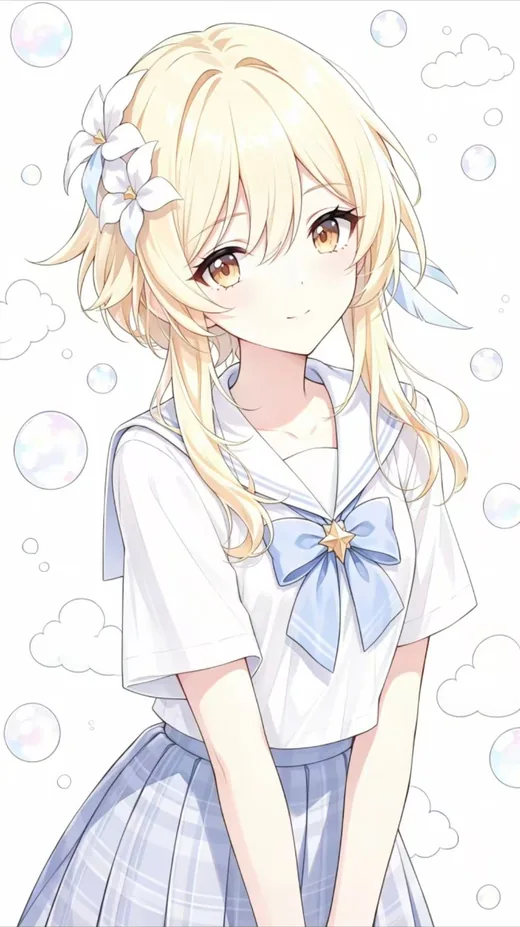
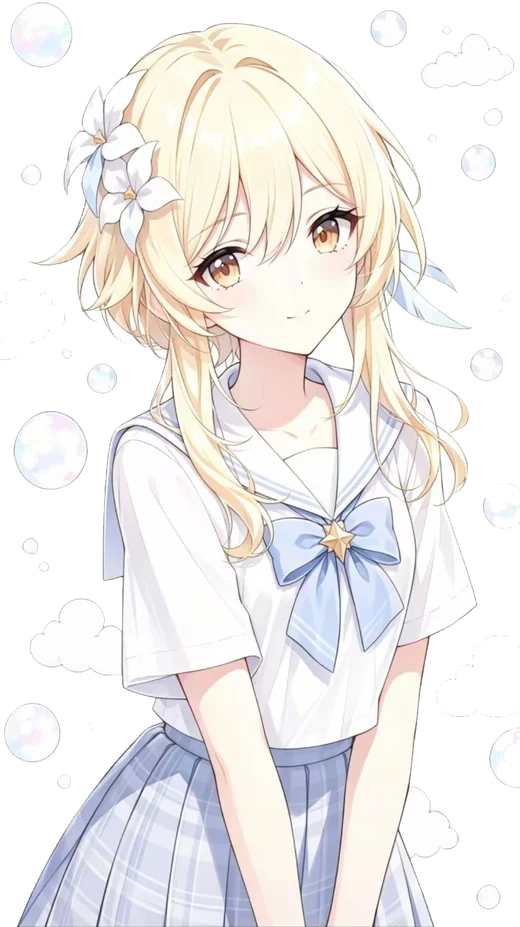
feat(login): 插画改方形并融进背景（白底抠 alpha，去掉卡片边）
- gen-login-art.py 增加抠底：四边 flood fill 近白像素 + 收边羽化，导出带 alpha 的 WebP
  （云朵有轮廓线不会被误吃；白衬衫/白裙也在轮廓内，保住了）
- 登录页插画改成 360px 方形、无卡片边、cover 裁到胸口、下沿羽化，人物直接浮在天空底料上
- 容器上限 1260→1320、登录卡 420→400，把宽度让给插画；窄于 1260 仍整体撤图
- 深色主题只压到 0.86 亮度（没有白底了，不需要重压）
- 关于页插画同步方形 + 身后垫天蓝柔光（白衬衫在白卡上会糊）
- 踩坑记录：mix-blend-mode 只要祖先有 z-index 就失效，所以走 alpha 而不是 blend

diff --git a/src/views/sys/login/Login.vue b/src/views/sys/login/Login.vue
@@ -215,13 +215,15 @@
   /* ---------------- 布局 ---------------- */
   .@{prefix-cls}__inner {
     position: relative;
-    z-index: 2;
+    /* 不加 z-index：一旦形成层叠上下文，插画的 mix-blend-mode 就只能跟
+     * 这个空上下文混合（背景是透明的），白底会重新显形成一块白方块。
+     * 靠 DOM 顺序（sky 在前）就已经在下层了，不需要 z-index。 */
     display: grid;
-    grid-template-columns: minmax(0, 1fr) minmax(0, 420px);
+    grid-template-columns: minmax(0, 1fr) minmax(0, 400px);
     gap: 64px;
     align-items: center;
     width: 100%;
-    max-width: 1260px;
+    max-width: 1320px;
     padding: 56px 40px;
     margin: 0 auto;
   }
@@ -244,17 +246,17 @@
     min-width: 0;
   }
 
-  /* ---------------- 插画（竖版卡片） ----------------
-   * 直接用二创原图：白底 + 气泡 + 水手服本身就是这套品牌视觉，
-   * 不再手绘。图由 build/brand/gen-login-art.py 从截图裁黑边后导出。 */
+  /* ---------------- 插画（方形 · 融进背景） ----------------
+   * 图谱本身带 alpha：白底在 build/brand/gen-login-art.py 里从四边 flood fill 掉，
+   * 所以浅色/深色都不需要 blend 兜底，也没有卡片边。
+   * 方框只决定构图：cover 裁到胸口，下沿羽化，人物像从背景里浮出来。 */
   .@{prefix-cls}__art {
     position: relative;
     flex: 0 0 auto;
-    width: clamp(200px, 19vw, 250px);
-    aspect-ratio: 520 / 927;
+    width: clamp(300px, 25vw, 360px);
+    aspect-ratio: 1;
     margin: 0;
-    border-radius: 22px;
-    box-shadow: 0 30px 70px -34px rgb(53 99 180 / 58%);
+    pointer-events: none;
   }
 
   .@{prefix-cls}__art img {
@@ -262,45 +264,13 @@
     width: 100%;
     height: 100%;
     object-fit: cover;
-    border-radius: inherit;
+    object-position: 50% 4%;
+    mask-image: linear-gradient(180deg, #000 0 82%, rgb(0 0 0 / 0) 100%);
   }
 
-  /* 身后一层天蓝柔光，避免白底卡片像"贴"上去 */
-  .@{prefix-cls}__art::before {
-    position: absolute;
-    inset: -12% -16% -8%;
-    z-index: -1;
-    background:
-      radial-gradient(62% 54% at 50% 40%, rgb(142 199 243 / 44%), transparent 72%),
-      radial-gradient(52% 40% at 50% 96%, rgb(226 171 74 / 22%), transparent 76%);
-    content: '';
-    filter: blur(14px);
-  }
-
-  /* 深色下才需要底部收暗；浅色页面本身是白的，再叠一层反而把裙摆洗白。
-   * 内描边也放这里 —— 图铺满 figure，figure 自身的 inset 阴影会被盖住。 */
-  .@{prefix-cls}__art::after {
-    position: absolute;
-    inset: 0;
-    pointer-events: none;
-    content: '';
-    border-radius: inherit;
-    box-shadow: inset 0 0 0 1px rgb(255 255 255 / 66%);
-  }
-
-  html[data-theme='dark'] .@{prefix-cls}__art {
-    box-shadow: 0 34px 80px -30px rgb(0 0 0 / 90%);
-  }
-
-  /* 白底原图在深色下刺眼，压一点亮度即可 —— 压太狠会发灰发脏，
-   * 深色底 + 一张亮色挂画本来就是好看的对比。 */
+  /* 深色下白衬衫会有点刺眼，压一点亮度即可（没有白底了，不需要压很狠） */
   html[data-theme='dark'] .@{prefix-cls}__art img {
-    filter: brightness(0.88) saturate(1.02);
-  }
-
-  html[data-theme='dark'] .@{prefix-cls}__art::after {
-    background: linear-gradient(180deg, rgb(0 0 0 / 0) 76%, rgb(6 14 26 / 26%));
-    box-shadow: inset 0 0 0 1px rgb(255 255 255 / 18%);
+    filter: brightness(0.86) saturate(1.04);
   }
 
   .@{prefix-cls}__lockup {
@@ -497,7 +467,7 @@
   .@{prefix-cls}__card {
     position: relative;
     width: 100%;
-    max-width: 420px;
+    max-width: 400px;
     padding: 28px 28px 20px;
     overflow: hidden;
     background: var(--g-card-bg);

diff --git a/src/views/guoba/about/index.vue b/src/views/guoba/about/index.vue
@@ -180,15 +180,25 @@
     align-items: center;
   }
 
+  /* 插画自带 alpha（白底已在 gen-login-art.py 里抠掉），所以不需要卡片/描边/投影，
+   * 方形只是构图：cover 裁到胸口 + 下沿羽化，人物直接从卡片底色上浮出来 */
   .db-about__brandart {
     position: relative;
     flex: 0 0 auto;
-    width: 132px;
+    width: 148px;
+    height: 148px; /* 显式给高：竖排 flex 里 aspect-ratio 会被图片的固有比例顶开 */
     margin: 0;
-    overflow: hidden;
-    aspect-ratio: 520 / 927;
-    border-radius: 14px;
-    box-shadow: 0 14px 32px -16px rgb(53 99 180 / 58%);
+    align-self: center;
+  }
+
+  /* 卡片底色是白的，白衬衫会跟着糊掉 —— 身后垫一层天蓝柔光，人物才有轮廓 */
+  .db-about__brandart::before {
+    position: absolute;
+    inset: -14%;
+    z-index: -1;
+    content: '';
+    background: radial-gradient(62% 58% at 50% 42%, rgb(142 199 243 / 58%), rgb(142 199 243 / 0) 76%);
+    filter: blur(8px);
   }
 
   .db-about__brandart img {
@@ -196,20 +206,16 @@
     width: 100%;
     height: 100%;
     object-fit: cover;
+    object-position: 50% 2%;
+    mask-image: linear-gradient(180deg, #000 0 88%, rgb(0 0 0 / 0) 100%);
   }
 
-  /* 内描边画在图片之上，否则会被 img 铺满盖掉 */
-  .db-about__brandart::after {
-    position: absolute;
-    inset: 0;
-    pointer-events: none;
-    content: '';
-    border-radius: inherit;
-    box-shadow: inset 0 0 0 1px rgb(255 255 255 / 55%);
+  html[data-theme='dark'] .db-about__brandart::before {
+    background: radial-gradient(56% 50% at 50% 40%, rgb(98 168 234 / 26%), rgb(98 168 234 / 0) 74%);
   }
 
   html[data-theme='dark'] .db-about__brandart img {
-    filter: brightness(0.88) saturate(1.02);
+    filter: brightness(0.88) saturate(1.04);
   }
 
   .db-about__brandbody {
@@ -317,6 +323,7 @@
     .db-about__brandart {
       align-self: center;
       width: 108px;
+      height: 108px;
     }
   }
 

diff --git a/build/brand/gen-login-art.py b/build/brand/gen-login-art.py
@@ -1,46 +1,50 @@
 #!/usr/bin/env python
 # -*- coding: utf-8 -*-
 """
-生成登录页的荧插画资源。
+生成登录页 / 关于页用的荧插画资源。
 
-源图是手机截图（顶部状态栏 + 上下黑边），所以先自动切掉黑边，
-再等比缩到 2 倍图宽度，导出 WebP 给前端用。
+源图是手机截图（顶部状态栏 + 上下黑边），要解决的问题有两个：
+  1. 切掉黑边（按整行平均亮度找画面区）
+  2. 把白底去掉（从四边 flood fill 近白像素），否则深色主题下就是一块白方块；
+     mix-blend-mode: multiply 只在浅色底有效，且一旦祖先形成层叠上下文就失效，
+     所以老老实实做成带 alpha 的图最稳。
 
 用法：
   C:/Users/hp/.workbuddy/binaries/python/envs/default/Scripts/python.exe build/brand/gen-login-art.py
 可选环境变量：
   ART_SRC      源文件（默认 build/brand/source/ying-art-source.jpg）
   ART_WIDTH    输出宽度（默认 520，对应 260px 的 2 倍图）
-  ART_FORMAT   webp | png（默认 webp）
+  ART_BG       可选的纯色背景替换（不填则保留透明）
 
 输出：
   src/assets/images/ying-art.webp
-  build/brand/preview/ying-art-check.png（裁剪结果自查）
+  build/brand/preview/ying-art-check.png（浅色 / 深色底各一张自查图）
 """
 import os
 import sys
 
-from PIL import Image
+from PIL import Image, ImageDraw, ImageFilter
 
 ROOT = os.path.dirname(os.path.dirname(os.path.dirname(os.path.abspath(__file__))))
 SRC = os.environ.get('ART_SRC') or os.path.join(ROOT, 'build', 'brand', 'source', 'ying-art-source.jpg')
 WIDTH = int(os.environ.get('ART_WIDTH') or 520)
-FMT = (os.environ.get('ART_FORMAT') or 'webp').lower()
-OUT = os.path.join(ROOT, 'src', 'assets', 'images', f'ying-art.{FMT}')
+OUT = os.path.join(ROOT, 'src', 'assets', 'images', 'ying-art.webp')
 CHECK = os.path.join(ROOT, 'build', 'brand', 'preview', 'ying-art-check.png')
 
 # 画面判定阈值：整行平均亮度高于该值才算插画内容。
-# 状态栏那几行虽然是"亮字黑底"，平均亮度只有 40~60，用 40 会把状态栏算进画面。
+# 状态栏那几行是"亮字黑底"，平均亮度只有 40~60，用 40 会把状态栏算进画面。
 CONTENT_AVG = 150.0
+# 近白判定：只有三通道都不低于它的像素才可能是"背景"
+NEAR_WHITE = 246
+# 反锯齿边：flood fill 之后再往外扩一圈，只吃"比背景稍暗一点"的像素
+FRINGE = 238
 
 
 def content_box(im):
     """找出画面最长的非黑边连续行区间，横向保留整宽。"""
     g = im.convert('L')
     w, h = g.size
-    rows = []
-    for y in range(h):
-        rows.append(sum(g.crop((0, y, w, y + 1)).get_flattened_data()) / w)
+    rows = [sum(g.crop((0, y, w, y + 1)).get_flattened_data()) / w for y in range(h)]
 
     best = (0, 0)
     start = None
@@ -57,7 +61,49 @@ def content_box(im):
     return best
 
 
-def main():
+def bg_mask(im):
+    """从四边 flood fill 出背景：返回 L 图，255 = 背景。"""
+    w, h = im.size
+    rgb = im.load()
+
+    # 1. 近白候选（宽条件，只用来做 flood fill 的边界）
+    cand = Image.new('L', (w, h), 0)
+    cp = cand.load()
+    for y in range(h):
+        for x in range(w):
+            r, g, b = rgb[x, y]
+            if r >= NEAR_WHITE and g >= NEAR_WHITE and b >= NEAR_WHITE:
+                cp[x, y] = 255
+
+    # 2. 四边起 flood fill（PIL 的 floodfill 遇到非 255 就停，正好卡住人物与云朵轮廓）
+    fill = cand.copy()
+    border = [(x, 0) for x in range(w)] + [(x, h - 1) for x in range(w)]
+    border += [(0, y) for y in range(h)] + [(w - 1, y) for y in range(h)]
+    for pt in border:
+        if fill.getpixel(pt) == 255:
+            ImageDraw.floodfill(fill, pt, 128)
+
+    bg = Image.new('L', (w, h), 0)
+    fp, bp = fill.load(), bg.load()
+    for y in range(h):
+        for x in range(w):
+            if fp[x, y] == 128:
+                bp[x, y] = 255
+
+    # 3. 反锯齿边：向外扩两圈，但只吃明显偏白的像素（不然会把云朵吃掉）
+    for _ in range(2):
+        grown = bg.filter(ImageFilter.MaxFilter(3))
+        gp = grown.load()
+        for y in range(h):
+            for x in range(w):
+                if bp[x, y] == 0 and gp[x, y] > 0:
+                    r, g, b = rgb[x, y]
+                    if min(r, g, b) >= FRINGE:
+                        bp[x, y] = 255  # 就地写回 bg，下一轮继续从它扩张
+    return bg
+
+
+def build():
     if not os.path.exists(SRC):
         sys.exit(f'源图不存在：{SRC}')
     im = Image.open(SRC).convert('RGB')
@@ -65,21 +111,31 @@ def main():
     art = im.crop((0, top, im.width, bottom))
     print(f'源图 {im.width}x{im.height} -> 裁掉黑边 y={top}..{bottom}，得到 {art.width}x{art.height}')
 
+    mask = bg_mask(art)
+    alpha = mask.point(lambda v: 0 if v else 255)
+    # 收一圈再羽化：白边不会残留，边缘也不会塑料感
+    alpha = alpha.filter(ImageFilter.MinFilter(3)).filter(ImageFilter.GaussianBlur(0.7))
+
+    rgba = art.copy()
+    rgba.putalpha(alpha)
+
     height = round(WIDTH * art.height / art.width)
-    art = art.resize((WIDTH, height), Image.LANCZOS)
-
+    rgba = rgba.resize((WIDTH, height), Image.LANCZOS)
     os.makedirs(os.path.dirname(OUT), exist_ok=True)
-    if FMT == 'png':
-        art.save(OUT, 'PNG', optimize=True)
-    else:
-        art.save(OUT, 'WEBP', quality=82, method=6)
-    size_kb = os.path.getsize(OUT) / 1024
-    print(f'输出 {os.path.relpath(OUT, ROOT)}  {height}x{WIDTH}  {size_kb:.1f} KB  比例 {WIDTH / height:.3f}')
+    rgba.save(OUT, 'WEBP', quality=86, method=6)
+    print(f'输出 {os.path.relpath(OUT, ROOT)}  {WIDTH}x{height}  {os.path.getsize(OUT) / 1024:.1f} KB（带 alpha）')
 
+    # 自查：浅色 / 深色底各贴一张
     os.makedirs(os.path.dirname(CHECK), exist_ok=True)
-    art.save(CHECK, 'PNG')
-    print(f'自查图 {os.path.relpath(CHECK, ROOT)}')
+    pad = 16
+    sheet = Image.new('RGB', (WIDTH * 2 + pad * 3, height + pad * 2), '#ffffff')
+    for i, color in enumerate(['#eef4fc', '#0b1220']):
+        tile = Image.new('RGB', (WIDTH, height), color)
+        tile.paste(rgba, (0, 0), rgba)
+        sheet.paste(tile, (pad + i * (WIDTH + pad), pad))
+    sheet.save(CHECK, 'PNG')
+    print(f'自查图 {os.path.relpath(CHECK, ROOT)}（左浅底 / 右深底）')
 
 
 if __name__ == '__main__':
-    main()
+    build()

diff --git a/CHANGELOG.md b/CHANGELOG.md
@@ -16,13 +16,19 @@
 
 ### 变更
 
-- **登录页品牌区加插画**：左侧「文字列 + 插画列」双列，插画为荧的二创图（竖版卡片，
-  天蓝柔光 + 白描边 + 落地投影），宽度不足 1260px 时自动撤掉，文字优先
-- **插画资源管线** `build/brand/gen-login-art.py`：从手机截图自动裁掉状态栏与上下黑边，
-  等比导出 `src/assets/images/ying-art.webp`（520×927 / 45 KB，2 倍图给 250px 卡位）
-- **深色主题**：插画只压到 0.88 亮度 —— 压太狠会发灰发脏，暗底 + 一张亮色挂画反而更好看
-- **「关于」页品牌卡**：插画 + 视觉说明（品牌色、两套图标体系）+ 三枚品牌色卡
+- **登录页品牌区加插画**：左侧「文字列 + 插画列」双列，插画为荧的二创图，**方形构图、没有卡片边**——
+  白底抠成 alpha 后人物直接浮在天空底料上，cover 裁到胸口 + 下沿羽化，看起来是从背景里长出来的
+- **插画资源管线** `build/brand/gen-login-art.py`：先按行亮度裁掉截图的状态栏与上下黑边，
+  再从四边 flood fill 抠掉近白背景（云朵有轮廓线，不会被误吃），收一圈后羽化，
+  导出 `src/assets/images/ying-art.webp`（520×927 / 90 KB / 带 alpha）
+- **布局让位**：容器上限 1260 → 1320、登录卡 420 → 400，插画才能做到 360px 方形；
+  窄于 1260px 仍整体撤图，文字优先
+- **深色主题**：没有白底了，只把亮度压到 0.86，气泡和云朵在暗底上像发光一样浮着
+- **「关于」页品牌卡**：方形插画（身后垫天蓝柔光，避免白衬衫糊在白卡上）+ 视觉说明 + 三枚品牌色卡
 - 删掉手绘的 `ying-bust.svg`（已由二创原图替代）
+
+> 注：`mix-blend-mode: multiply` 能融白底，但只要祖先带 `z-index` 形成层叠上下文，
+> 混合就只对该空上下文生效、白底会立刻现形 —— 所以这里走的是抠 alpha 而不是 blend。
 
 ---
 
